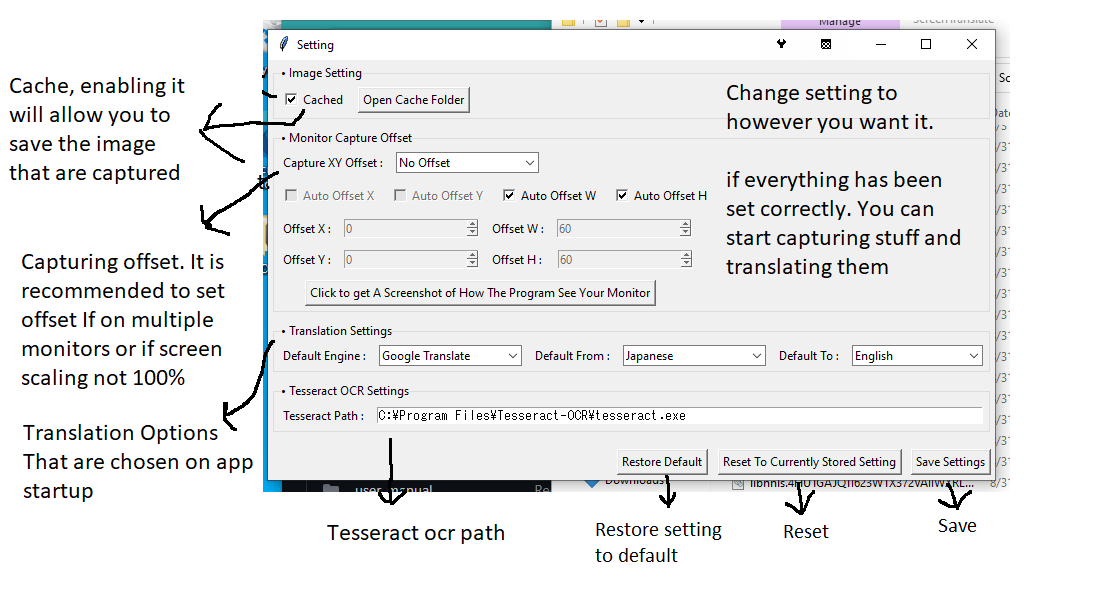
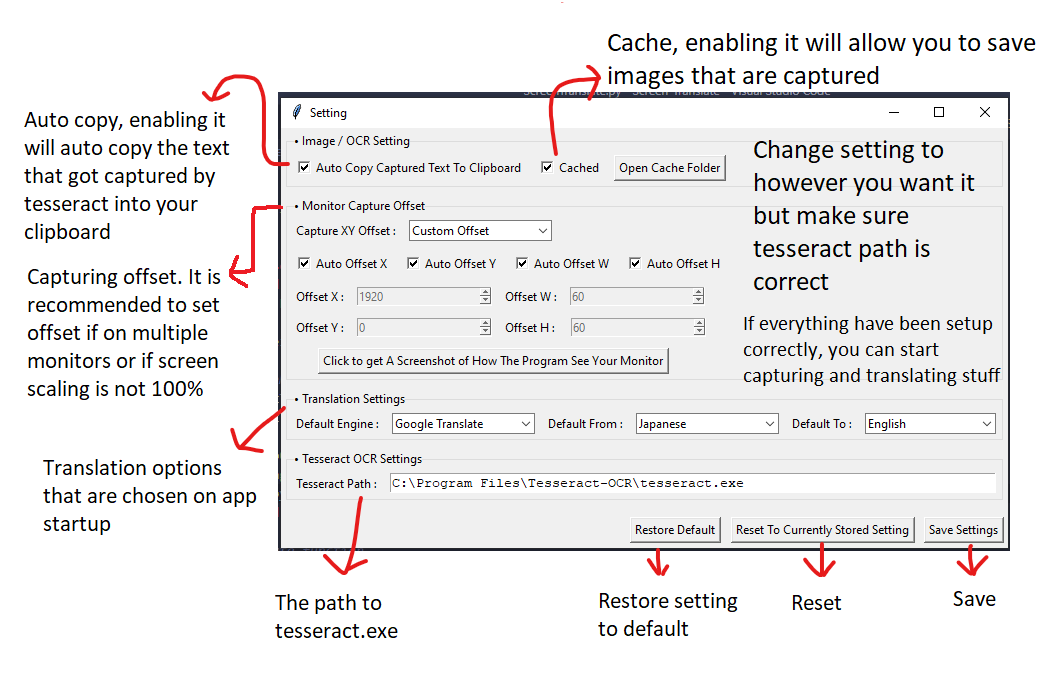
V1.3

Changed region(s): [[0.0, 0.0304, 0.9944, 0.9713], [0.0, 0.8196, 0.0932, 0.8499]]

diff --git a/ScreenTranslate.py b/ScreenTranslate.py
@@ -267,6 +267,11 @@ class CaptureUI():
             main_Menu.textBoxTop.delete(1.0, END)
             main_Menu.textBoxTop.insert(END, result[:-1]) # Delete last character
 
+            if settings['autoCopy'] == True:
+                print("Copying text to clipboard")
+                pyperclip.copy(result[:-1].strip())
+                print("Copied successfully to clipboard!")
+
             # Run the translate function
             main_Menu.translate(main_Menu, result[:-1])
 
@@ -388,7 +393,7 @@ class HistoryUI():
         sel_Index = main_Menu.history.historyTreeView.focus()
         if sel_Index != "":
             dataRow = main_Menu.history.historyTreeView.item(sel_Index, 'values')
-            pyperclip.copy(dataRow[2])
+            pyperclip.copy(dataRow[2].strip())
 
     def copyToTranslateMenu():
         sel_Index = main_Menu.history.historyTreeView.focus()
@@ -557,7 +562,6 @@ class SettingUI():
     def screenShotAndOpenLayout():
         capture.captureAll()
         startfile(dir_path + r"\resource\img_cache\Monitor(s) Captured View.png")
-        pass
 
     def restoreDefault(self):
         x = Mbox("Confirmation", "Are you sure you want to set the settings to default?\n\n**WARNING! CURRENTLY SAVED SETTING WILL BE OVERWRITTEN**", 3)
@@ -610,6 +614,14 @@ class SettingUI():
         else:
             self.root.setvar(name="checkVarCache", value=False)
             self.checkBTNCache.deselect()
+
+        # Autocopy checkbox
+        if settings['autoCopy'] == True:
+            self.root.setvar(name="checkVarAutoCopy", value=True)
+            self.checkBTNAutoCopy.select()
+        else:
+            self.root.setvar(name="checkVarAutoCopy", value=False)
+            self.checkBTNAutoCopy.deselect()
 
         # Store setting to localvar
         offSetXY = settings["offSetXY"]
@@ -727,6 +739,7 @@ class SettingUI():
 
         settingToSave = { 
             "cached": main_Menu.setting_UI.checkVarCache.get(),
+            "autoCopy": main_Menu.setting_UI.checkVarAutoCopy.get(),
             "offSetXYType": main_Menu.setting_UI.CBOffSetChoice.get(),
             "offSetXY": [x, y],
             "offSetWH": [w, h],
@@ -786,6 +799,7 @@ class SettingUI():
         # Get the engine from the combobox
         curr_Engine = self.CBDefaultEngine.get()
         previous_From = self.CBDefaultFrom.get()
+        previous_To = self.CBDefaultTo.get()
 
         # Translate
         if curr_Engine == "Google Translate":
@@ -793,31 +807,31 @@ class SettingUI():
             self.CBDefaultFrom['values'] = optGoogle
             self.CBDefaultFrom.current(searchList(previous_From, optGoogle))
             self.CBDefaultTo['values'] = optGoogle
-            self.CBDefaultTo.current(searchList("English", optGoogle))
+            self.CBDefaultTo.current(searchList(previous_To, optGoogle))
         elif curr_Engine == "Deepl":
             self.langOpt = optDeepl
             self.CBDefaultFrom['values'] = optDeepl
             self.CBDefaultFrom.current(searchList(previous_From, optDeepl))
             self.CBDefaultTo['values'] = optDeepl
-            self.CBDefaultTo.current(searchList("English", optDeepl))
+            self.CBDefaultTo.current(searchList(previous_To, optDeepl))
         elif curr_Engine == "MyMemoryTranslator":
             self.langOpt = optMyMemory
             self.CBDefaultFrom['values'] = optMyMemory
             self.CBDefaultFrom.current(searchList(previous_From, optMyMemory))
             self.CBDefaultTo['values'] = optMyMemory
-            self.CBDefaultTo.current(searchList("English", optMyMemory))
+            self.CBDefaultTo.current(searchList(previous_To, optMyMemory))
         elif curr_Engine == "PONS":
             self.langOpt = optPons
             self.CBDefaultFrom['values'] = optPons
             self.CBDefaultFrom.current(searchList(previous_From, optPons))
             self.CBDefaultTo['values'] = optPons
-            self.CBDefaultTo.current(searchList("English", optPons))
+            self.CBDefaultTo.current(searchList(previous_To, optPons))
 
     # Frames
     s = ttk.Style()
     s.configure('TLabelframe.Label', font='arial 14 bold')
 
-    firstFrame = ttk.LabelFrame(root, text="• Image Setting")
+    firstFrame = ttk.LabelFrame(root, text="• Image / OCR Setting")
     firstFrame.pack(side=TOP, fill=X, expand=False, padx=5, pady=5)
     firstFrameContent = Frame(firstFrame)
     firstFrameContent.pack(side=TOP, fill=X, expand=False)
@@ -851,6 +865,8 @@ class SettingUI():
     # First Frame
     checkVarCache = BooleanVar(root, name="checkVarCache", value=True) # So its not error
     checkBTNCache = Checkbutton(firstFrameContent, text="Cached", variable=checkVarCache)
+    checkVarAutoCopy = BooleanVar(root, name="checkVarCopyToClip", value=True) # So its not error
+    checkBTNAutoCopy = Checkbutton(firstFrameContent, text="Auto Copy Captured Text To Clipboard", variable=checkVarAutoCopy)
     btnOpenCacheFolder = Button(firstFrameContent, text="Open Cache Folder", command=lambda: startfile(dir_path + r"\resource\img_cache"))
 
     # Second Frame
@@ -917,6 +933,7 @@ class SettingUI():
         # TL CB
         # Init element
         # 1
+        self.checkBTNAutoCopy.pack(side=LEFT, padx=5, pady=5)
         self.checkBTNCache.pack(side=LEFT, padx=5, pady=5)
         self.btnOpenCacheFolder.pack(side=LEFT, padx=5, pady=5)
 
@@ -1173,6 +1190,7 @@ class main_Menu():
         # Get the engine from the combobox
         curr_Engine = self.CBTranslateEngine.get()
         previous_From = self.CBLangFrom.get()
+        previous_To = self.CBLangTo.get()
 
         # Translate
         if curr_Engine == "Google Translate":
@@ -1180,25 +1198,25 @@ class main_Menu():
             self.CBLangFrom['values'] = optGoogle
             self.CBLangFrom.current(searchList(previous_From, optGoogle))
             self.CBLangTo['values'] = optGoogle
-            self.CBLangTo.current(searchList("English", optGoogle))
+            self.CBLangTo.current(searchList(previous_To, optGoogle))
         elif curr_Engine == "Deepl":
             self.langOpt = optDeepl
             self.CBLangFrom['values'] = optDeepl
             self.CBLangFrom.current(searchList(previous_From, optDeepl))
             self.CBLangTo['values'] = optDeepl
-            self.CBLangTo.current(searchList("English", optDeepl))
+            self.CBLangTo.current(searchList(previous_To, optDeepl))
         elif curr_Engine == "MyMemoryTranslator":
             self.langOpt = optMyMemory
             self.CBLangFrom['values'] = optMyMemory
             self.CBLangFrom.current(searchList(previous_From, optMyMemory))
             self.CBLangTo['values'] = optMyMemory
-            self.CBLangTo.current(searchList("English", optMyMemory))
+            self.CBLangTo.current(searchList(previous_To, optMyMemory))
         elif curr_Engine == "PONS":
             self.langOpt = optPons
             self.CBLangFrom['values'] = optPons
             self.CBLangFrom.current(searchList(previous_From, optPons))
             self.CBLangTo['values'] = optPons
-            self.CBLangTo.current(searchList("English", optPons))
+            self.CBLangTo.current(searchList(previous_To, optPons))
 
 
     # --- Declarations and Layout ---

diff --git a/resource/JsonHandling.py b/resource/JsonHandling.py
@@ -6,6 +6,7 @@ dir_path = os.path.dirname(os.path.realpath(__file__))
 # Default Setting
 default_Setting = { 
     "cached": True,
+    "autoCopy": True,
     "offSetXYType": "No Offset",
     "offSetXY": ["auto", "auto"],
     "offSetWH": ["auto", "auto"],

diff --git a/readme.md b/readme.md
@@ -18,7 +18,7 @@ Inspired by Visual Novel Reader (VNR), [Visual Novel OCR](https://github.com/lem
 **For User**
 1. Download the latest [release](https://github.com/Dadangdut33/Screen-Translate/releases/tag/release) of this program
 
-2. Install tesseract, make sure select install all language pack when prompted
+2. Install tesseract, **make sure to select install all language pack when prompted**
 3. Open the ScreenTranslate.exe
 4. Check settings, make sure tesseract location is correct
 5. Set monitor scaling to 100% so that image is captured accurately (If scaling is not set to 100% you will need to set offset in setting) **(Recommended)**
@@ -36,7 +36,7 @@ Inspired by Visual Novel Reader (VNR), [Visual Novel OCR](https://github.com/lem
 
 if everything works and you have a suggestion or improvement, you can submit a pull request on the github repository. I will check if it's a good idea to add it.
 
-# How To Compile It To an .exe Yourself
+# How To Compile It To .exe Yourself
 You can use p2exe or many other stuff. I use pyinstaller to compile it.<br>
 Command used are
 ```
@@ -45,7 +45,7 @@ pyinstaller ScreenTranslate.py
 ```
 After that you copy the folder in `copy To Compiled Folder` to dist/ScreenTranslate. Then you can run the executable .exe file without any problem.
 
-Read [this stackoverflow post](https://stackoverflow.com/questions/5458048/how-can-i-make-a-python-script-standalone-executable-to-run-without-any-dependen)  to learn more on how to do it.
+Read [this stackoverflow post](https://stackoverflow.com/questions/5458048/how-can-i-make-a-python-script-standalone-executable-to-run-without-any-dependen) to learn more on how to do it.
 
 # Tutorial on How To Use
 1. Select Language
